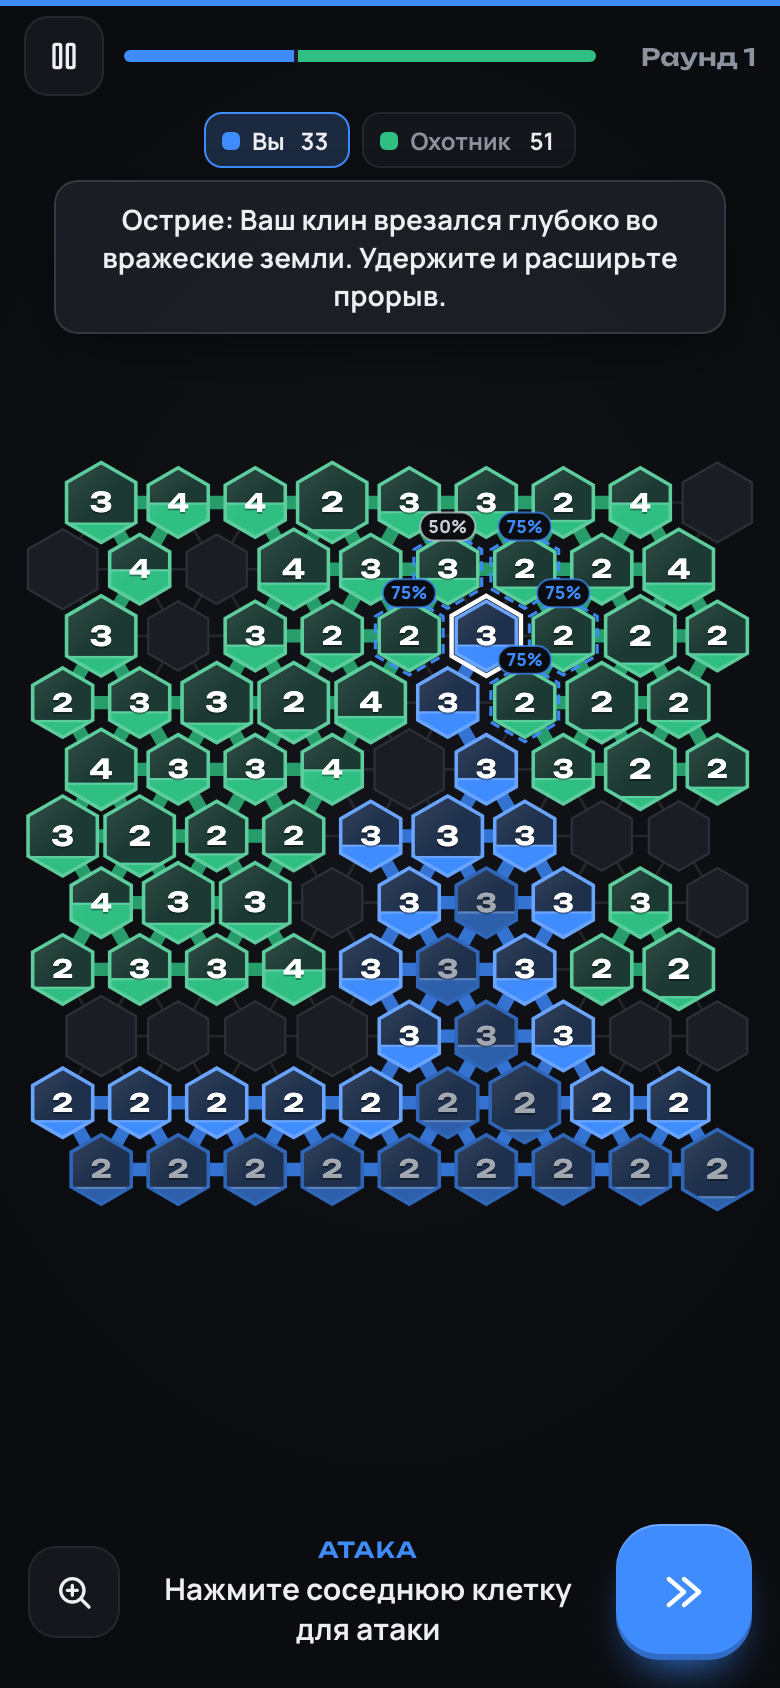
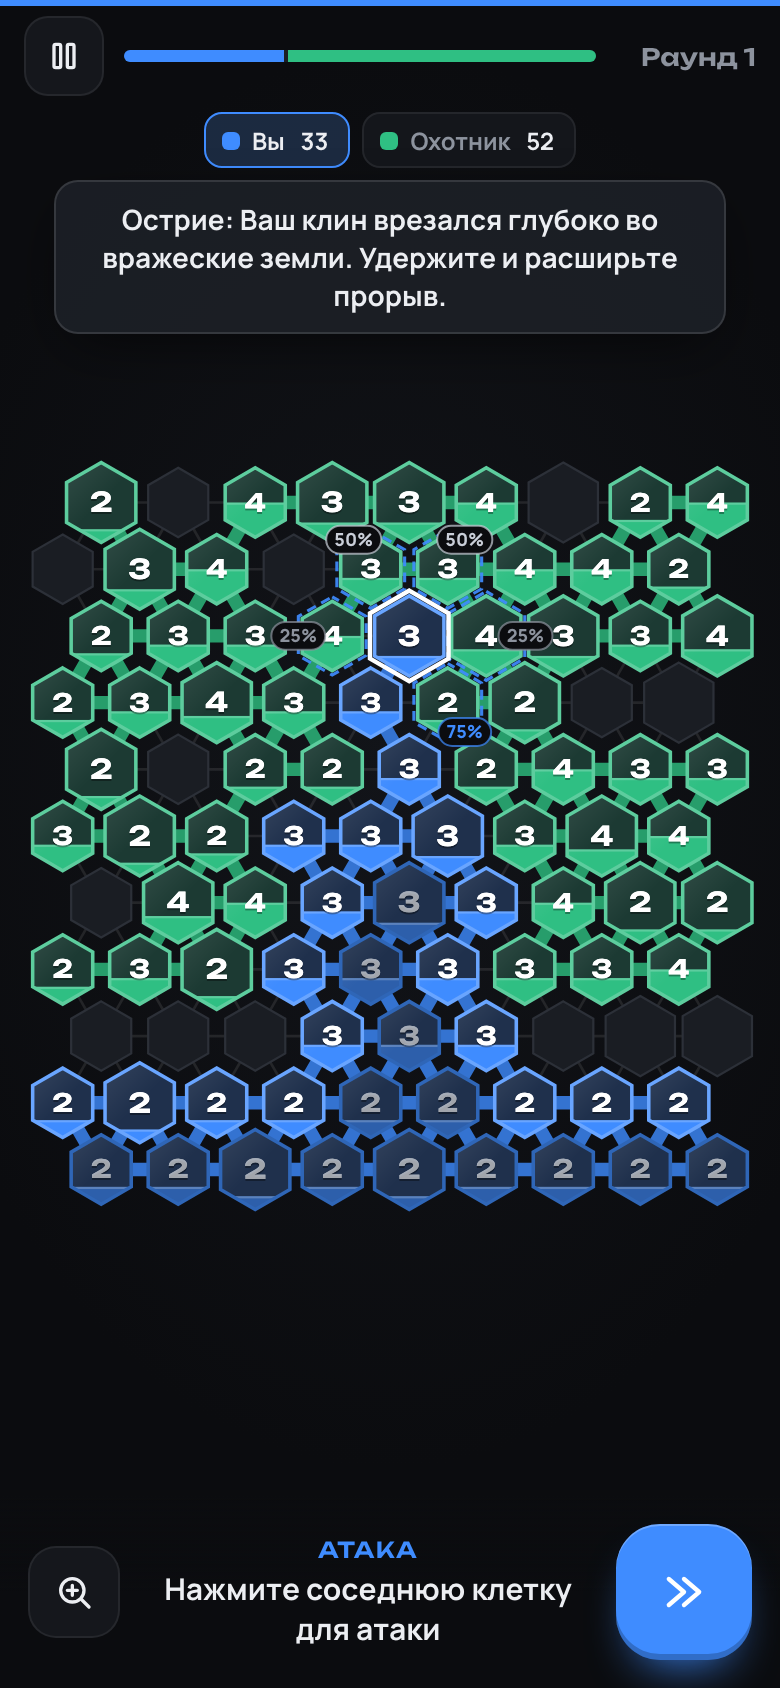
Chance badges on the far edge of targets (never under the selection frame); Google site verification; fresh README screenshots

diff --git a/src/ui/board/renderer.ts b/src/ui/board/renderer.ts
@@ -648,13 +648,19 @@ export class BoardRenderer {
       }
     }
     // win-chance badges go on top of every outline and effect
-    if (v.chances && s > 11) {
+    if (v.chances && s > 11 && v.selected >= 0 && this.centers[v.selected]) {
       const col = playerColor(v.state.current);
+      const [sx, sy] = P(v.selected);
       for (const [i, p] of v.chances) {
         if (!this.centers[i]) continue;
         const [x, y] = P(i);
         const r = cellRadius(cells[i].maxPower) * s;
-        this.badge(ctx, x, y - r - Math.max(4, s * 0.12), `${p}%`, p >= 75 ? col : p >= 50 ? '#c9ced8' : '#8d939e', s);
+        // on the far side of the target, away from the selected cell and its white frame
+        const dx = x - sx;
+        const dy = y - sy;
+        const len = Math.hypot(dx, dy) || 1;
+        const off = r * 0.98;
+        this.badge(ctx, x + (dx / len) * off, y + (dy / len) * off, `${p}%`, p >= 75 ? col : p >= 50 ? '#c9ced8' : '#8d939e', s);
       }
     }
     this.onAnimating?.(this.busy);

diff --git a/index.html b/index.html
@@ -13,6 +13,7 @@
       content="влияние игра, influence игра, влияние онлайн, influence teremok, влияние в браузере, влияние на пк, влияние на iphone, стратегия гексы, захват территории, influence web"
     />
     <link rel="canonical" href="https://nelkio.github.io/influence-web/" />
+    <meta name="google-site-verification" content="sBDF4QuI3c0VnsnnlpVagbPLyioW5jRaXDjcs0wuUSE" />
     <meta name="robots" content="index, follow" />
 
     <!-- link previews (Telegram, VK, X, Discord...) -->

diff --git a/public/googleec8719360c660018.html b/public/googleec8719360c660018.html
@@ -1,0 +1,1 @@
+google-site-verification: googleec8719360c660018.html
